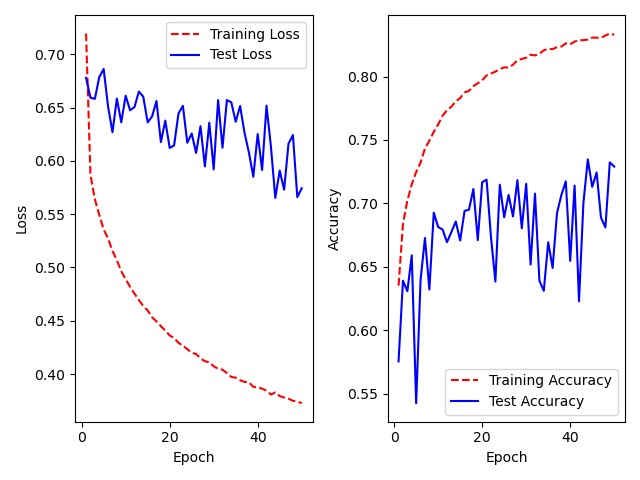
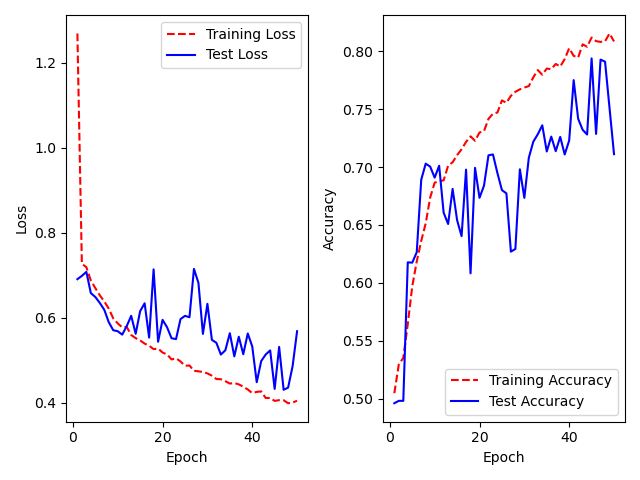
further resblcok experiemnts

diff --git a/experiment_2/cnn_resblock.py b/experiment_2/cnn_resblock.py
@@ -90,7 +90,7 @@ def create_res_net():
                filters=num_filters,
                padding="same")(inputs)
     t = leaky_relu_bn(t)
-    t = Dropout(0.5)(t)
+    t = Dropout(0.8)(t)
     
     t = residual_stack(t, filters=num_filters)
     #t = residual_stack(t, filters=num_filters)
@@ -104,6 +104,10 @@ def create_res_net():
     t = LeakyReLU()(t)
     t = Dense(128)(t)
     t = LeakyReLU()(t)
+    # t = Dense(64)(t)
+    # t = LeakyReLU()(t)
+    # t = Dense(16)(t)
+    # t = LeakyReLU()(t)
     t = Dropout(0.5)(t)
     outputs = Dense(classes, activation='softmax')(t)
     
@@ -132,7 +136,7 @@ def create_res_net():
 model = create_res_net()
 
 print(X_train.shape, y_train_hot.shape, X_val.shape, y_val_hot.shape)
-history = model.fit(X_train, y_train_hot, batch_size=128, epochs=50, verbose=1,
+history = model.fit(X_train, y_train_hot, batch_size=128, epochs=100, verbose=1,
             validation_data=(X_val, y_val_hot), callbacks=callbacks)
 
 
@@ -175,8 +179,8 @@ print(model.summary())
 results = model.evaluate(X_test, y_test_hot, batch_size=128)
 print("test loss, test acc:", results)
 
-y_predict = model.predict(X_test)
-y_classes = y_predict.argmax(axis=-1)
-y_test = np.ravel(y_test)
-cm = confusion_matrix(y_test, y_classes)
-print(f'Confusion Matrix: \n{cm}')
+# y_predict = model.predict(X_test)
+# y_classes = y_predict.argmax(axis=-1)
+# y_test = np.ravel(y_test)
+# cm = confusion_matrix(y_test, y_classes)
+# print(f'Confusion Matrix: \n{cm}')
